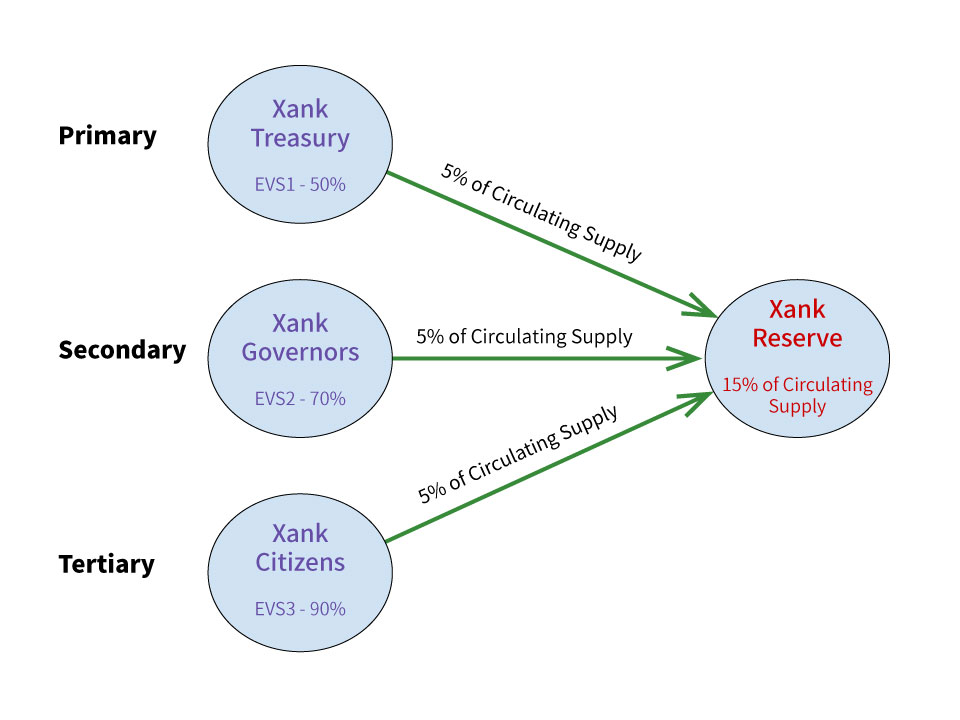
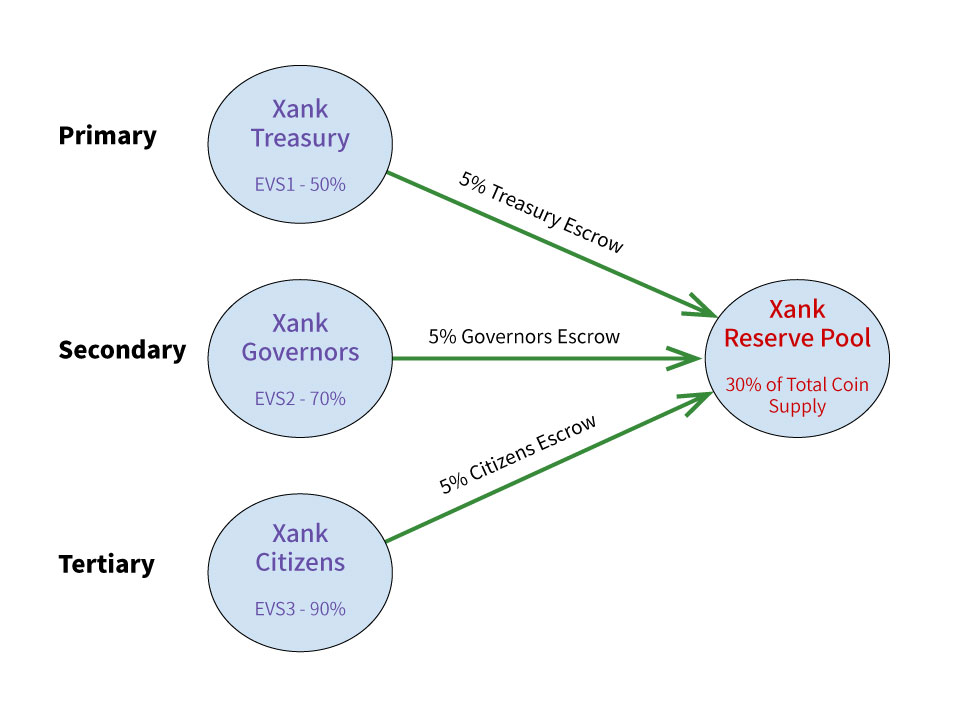
Updated EVS diagram for clarity

diff --git a/xank-white-paper_en.md b/xank-white-paper_en.md
@@ -525,7 +525,7 @@ SDR: Special drawing rights (ISO 4217 currency code XDR) are supplementary forei
 
 <div align="center"><strong>Figure 5</strong>: Extreme Volatility Safeguard (EVS) Price Floor Mechanism</div>
 
-The Xank Treasury has a minimum limit set to 5% of the total circulating supply of Xank. Therefore when the Xank Treasury falls beneath that level, it algorithmically stops any more funding. Because of how Stable Pay operates, the equilibrium state of the Xank Reserve is expected to retain 15% of the total circulating supply of Xank at all times. When extreme volatility hits, the first level of EVS is set at 50% price drop in a single day. When that happens, the Xank Reserve will automatically pull the escrow funds preserved in the Xank Treasury. The second level of EVS is set at 70% price drop in a single day. When that happens, the Xank Reserve will pull the escrow funds engaged in Xank Governors’ masternode collaterals automatically. The third level of EVS is set at 90% price drop in a single day. When that happens, the Xank Reserve will pull the escrow funds engaged in Xank Citizens’ staking collaterals automatically. On top of these measures, 30% of the Xank Reserve Pool will at all times be atomically swapped with five cryptocurrencies with a low or negative correlation to Xank in prorated percentages reviewed every year as an extra safety net. When volatility subsides and normal times return, all escrow collaterals from Xank Citizens will be returned first, and all escrow collaterals from Xank Governors will be subsequently returned.
+The Xank Treasury has a minimum limit set to 5% of the total coin supply of Xank. Therefore when the Xank Treasury falls beneath that level, it algorithmically stops any more funding. Because of how Stable Pay operates, the equilibrium state of the Xank Reserve is expected to retain 15% of the total coin supply of Xank at all times. When extreme volatility hits, the first level of EVS is set at 50% price drop in a single day. When that happens, the Xank Reserve will automatically pull the escrow funds preserved in the Xank Treasury. The second level of EVS is set at 70% price drop in a single day. When that happens, the Xank Reserve will pull the escrow funds engaged in Xank Governors’ masternode collaterals automatically. The third level of EVS is set at 90% price drop in a single day. When that happens, the Xank Reserve will pull the escrow funds engaged in Xank Citizens’ staking collaterals automatically. On top of these measures, 30% of the Xank Reserve Pool will at all times be atomically swapped with five cryptocurrencies with a low or negative correlation to Xank in prorated percentages reviewed every quarter as an extra safety net. When volatility subsides and normal times return, all escrow collaterals from Xank Citizens will be returned first, and all escrow collaterals from Xank Governors will be subsequently returned.
 
 Hence we define the general term for Xank Reserve Pool as,
 
@@ -533,11 +533,11 @@ Hence we define the general term for Xank Reserve Pool as,
 
 where, 
 
-*   ![Rp=](https://render.githubusercontent.com/render/math?math=%5Ctextstyle+Rp%3D)Xank Reserve Pool (Total of 30%)
-*   ![Xr = ](https://render.githubusercontent.com/render/math?math=%5Ctextstyle+Xr+%3D+)Xank Reserve (15% of Circulating Supply)
-*   ![Te = ](https://render.githubusercontent.com/render/math?math=%5Ctextstyle+Te+%3D+)Xank Treasury Escrow (5% of Circulating Supply)
-*   ![Ge = ](https://render.githubusercontent.com/render/math?math=%5Ctextstyle+Ge+%3D+)Xank Governors’ Escrow (5% of Circulating Supply)
-*   ![Ce = ](https://render.githubusercontent.com/render/math?math=%5Ctextstyle+Ce+%3D+)Xank Citizens’ Escrow (5% of Circulating Supply)
+*   ![Rp=](https://render.githubusercontent.com/render/math?math=%5Ctextstyle+Rp%3D)Xank Reserve Pool (30% of Total Coin Supply)
+*   ![Xr = ](https://render.githubusercontent.com/render/math?math=%5Ctextstyle+Xr+%3D+)Xank Reserve (15% of Total Coin Supply)
+*   ![Te = ](https://render.githubusercontent.com/render/math?math=%5Ctextstyle+Te+%3D+)Xank Treasury Escrow (5% of Total Coin Supply)
+*   ![Ge = ](https://render.githubusercontent.com/render/math?math=%5Ctextstyle+Ge+%3D+)Xank Governors’ Escrow (5% of Total Coin Supply)
+*   ![Ce = ](https://render.githubusercontent.com/render/math?math=%5Ctextstyle+Ce+%3D+)Xank Citizens’ Escrow (5% of Total Coin Supply)
 
 
 ### Atomic Swap Basket
@@ -559,8 +559,8 @@ Hence we define the general term for Xank Atomic Swap Basket as,
 where, 
 
 *   ![Sb = ](https://render.githubusercontent.com/render/math?math=%5Ctextstyle+Sb+%3D+)Xank Atomic Swap Basket
-*   ![Rp=](https://render.githubusercontent.com/render/math?math=%5Ctextstyle+Rp%3D)Xank Reserve Pool (Total of 30%)
-*   ![Xs = ](https://render.githubusercontent.com/render/math?math=%5Ctextstyle+Xs+%3D+)Xank Total Coin Supply
+*   ![Rp=](https://render.githubusercontent.com/render/math?math=%5Ctextstyle+Rp%3D)Xank Reserve Pool
+*   ![Xs = ](https://render.githubusercontent.com/render/math?math=%5Ctextstyle+Xs+%3D+)Xank Total Coin Supply or ![M_n](https://render.githubusercontent.com/render/math?math=%5Ctextstyle+M_n)
 
 
 ### Idea Meritocracy Governance
